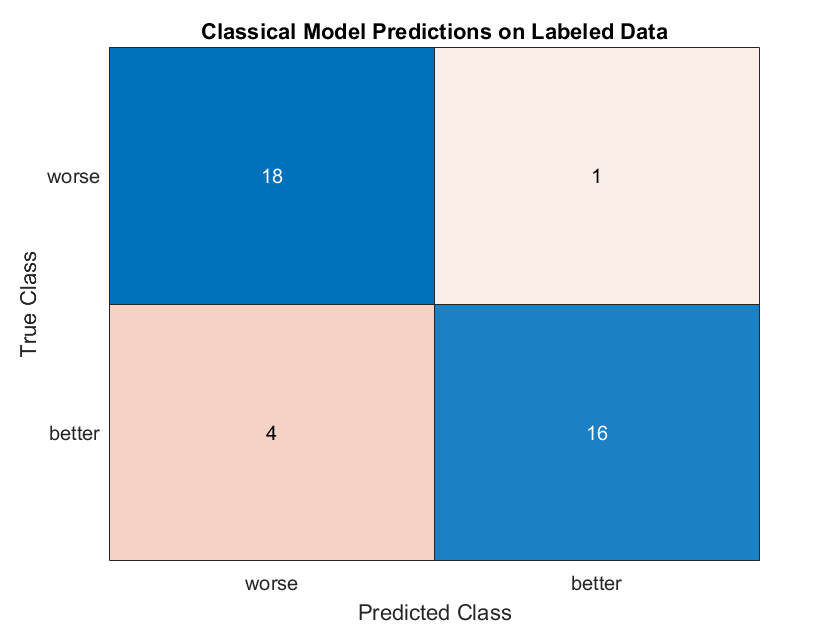
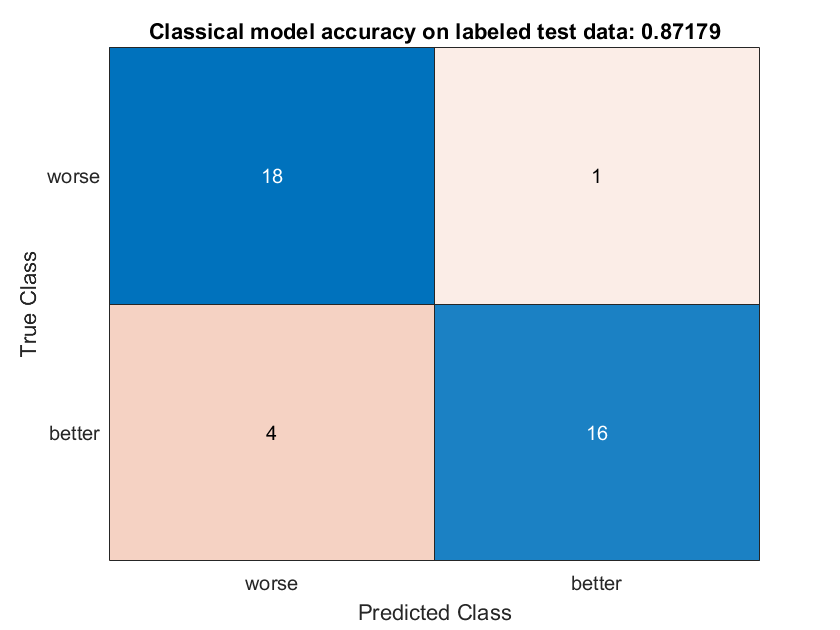
Test results on real hardware

Changed region(s): [[0.1548, 0.0302, 0.8667, 0.0905]]

diff --git a/examples/machine-learning/classifiers/creditscores/credit_classifier.m b/examples/machine-learning/classifiers/creditscores/credit_classifier.m
@@ -20,6 +20,8 @@ trainY = Y(idx);
 testX = X(~idx,:);
 testY = Y(~idx);
 
+save('testDataCredit.mat', 'testX', 'testY')
+
 %% Evaluate Classical Model
 
 % Ensemble of bagged decision trees
@@ -29,8 +31,9 @@ dTree = TreeBagger(numTrees,trainX,trainY);
 predY = predict(dTree, testX);
 
 figure
+accur = sum(testY==categorical(predY))/numel(testY);
 confusionchart(testY, categorical(predY))
-title('Classical Model Predictions on Labeled Data')
+title('Classical Test Accuracy: '+string(accur))
 
 %% Evaluate Quantum Model
 
@@ -46,21 +49,23 @@ title('Classical Model Predictions on Labeled Data')
 % options = trainingOptions("adam", ...
 %     MiniBatchSize=20, ...
 %     InitialLearnRate=0.01, ...
-%     ExecutionEnvironment="gpu", ...
+%     ExecutionEnvironment="cpu", ...
 %     Verbose=false, ...
-%     MaxEpochs=50, ...
+%     MaxEpochs=25, ...
 %     Plots="training-progress");
-% 
-% net = trainNetwork(trainX,trainY,layers,options);
 
-model = load('trainedNetwork.mat');
-net = model.net;
+% net = trainNetwork(trainX,trainY,layers,options);
+% save('trainedNetwork.mat', 'net')
+
+trained = load('trainedNetwork.mat');
+net = trained.net;
 
 predY = classify(net, testX);
 
 figure
-confusionchart(testY, predY)
-title('Quantum Model Predictions on Labeled Data')
+accur = sum(testY==predY)/numel(testY);
+confusionchart(testY, predY);
+title('Quantum Simulation Test Accuracy: '+string(accur))
 
 %% Evaluate Models on New Data
 
@@ -71,54 +76,13 @@ unlabeledData = readtable("CreditRating_NewCompanies.dat");
 X = processCreditData(unlabeledData);
 
 Y1 = predict(dTree, X);
+Y1 = categorical(Y1);
 
 Y2 = classify(net, X);
 
 figure
-cm = confusionchart(categorical(Y1), Y2);
+accur = sum(Y1==Y2)/size(X,1);
+cm = confusionchart(Y1, Y2);
 cm.XLabel = "Classical";
 cm.YLabel = "Quantum";
-title('Model Predictions on Unlabeled Data')
-
-%% Create Features and Labels from Credit Rating Data
-
-function [X,Y] = processCreditData(data)
-% Ratings {A,AA,AAA,B} are labeled as better and {BB,BBB,C} are labeled
-% as worse. Use 4 features to classify a sample as worse or better: 
-
-% (RE_TA)    - Retained Earnings / Total Assets
-% (EBIT_TA)  - Earnings Before Interests and Taxes / Total Assets 
-% (MVE_BVTD) - Market Value of Equity / Book Value of Total Debt 
-% (S_TA)     - Sales / Total Assets 
-
-arguments
-    data table
-end
-
-vars = data.Properties.VariableNames;
-
-% Choose features and rescale them in the range [0 pi/2]
-features = vars(3:6);
-data = normalize(data,"range", [0 pi/2], "DataVariables",features);
-
-numSamples = size(data, 1);
-numFeatures = length(features);
-
-hasLabels = ismember('Rating', vars);
-if hasLabels
-    Y = categorical(repmat("worse", [numSamples 1]));
-else
-    % Unused default output when data doesn't have labels
-    Y = missing;
-end
-
-X = zeros(numSamples, numFeatures);
-for ii  = 1:numSamples
-    X(ii,:) = data{ii, features};
-    if hasLabels
-        if ismember(data.Rating(ii), {'A','AA','AAA','B'})
-            Y(ii) = categorical("better");
-        end
-    end
-end
-end
+title("Model Agreement Frequency on New Data: "+string(accur))

diff --git a/examples/machine-learning/classifiers/creditscores/processCreditData.m b/examples/machine-learning/classifiers/creditscores/processCreditData.m
@@ -1,0 +1,40 @@
+function [X,Y] = processCreditData(data)
+% Ratings {A,AA,AAA,B} are labeled as better and {BB,BBB,C} are labeled
+% as worse. Use 4 features to classify a sample as worse or better: 
+
+% (RE_TA)    - Retained Earnings / Total Assets
+% (EBIT_TA)  - Earnings Before Interests and Taxes / Total Assets 
+% (MVE_BVTD) - Market Value of Equity / Book Value of Total Debt 
+% (S_TA)     - Sales / Total Assets 
+
+arguments
+    data table
+end
+
+vars = data.Properties.VariableNames;
+
+% Choose features and rescale them in the range [0 pi/2]
+features = vars(3:6);
+data = normalize(data,"range", [0 pi/2], "DataVariables",features);
+
+numSamples = size(data, 1);
+numFeatures = length(features);
+
+hasLabels = ismember('Rating', vars);
+if hasLabels
+    Y = categorical(repmat("worse", [numSamples 1]));
+else
+    % Unused default output when data doesn't have labels
+    Y = missing;
+end
+
+X = zeros(numSamples, numFeatures);
+for ii  = 1:numSamples
+    X(ii,:) = data{ii, features};
+    if hasLabels
+        if ismember(data.Rating(ii), {'A','AA','AAA','B'})
+            Y(ii) = categorical("better");
+        end
+    end
+end
+end

diff --git a/examples/machine-learning/classifiers/creditscores/README.md b/examples/machine-learning/classifiers/creditscores/README.md
@@ -2,29 +2,41 @@
 
 This example compares classical and quantum models for a binary classification
 task on synthetic credit rating data. Using labeled data from [2], both models are 
-trained and evaluated on unseen test data. A new credit dataset of unlabeled 
-data is used to compare the predictions of both models.
+trained and evaluated on unseen test data. New samples of unlabeled data
+are used to compare the simulated predictions of both models.
 
-The quantum circuit is based on Tree Tensor Network (TTN) structure [1] and
-is simulated without noise during training and test evaluation.  
+The quantum model is based on a Tree Tensor Network (TTN) circuit structure
+[1] with post-processing. It was trained classically, and tested on real
+quantum hardware as well as simulation. The classical model is a conventional
+bagged decision tree. 
 
-Data is available with the Statistics and Machine Learning Toolbox. It can
-be accessed by opening the example [2]:
+Details of data pre-processing are shown in the ```matlab processCreditData.m```
+function. The raw data is available with the Statistics and Machine 
+Learning Toolbox. It can be accessed by opening the example [2]:
 ```matlab
 openExample('stats/creditratingdemo')
 ```
 
-## Results on Labeled and Unlabeled Test Data 
+## Simulation and Hardware Test Results 
 
-In the two figures below, diagonal elements represent the respective model
-making the correct prediction on unseen labeled samples.
+Models were trained using 99% of the data, and tested on the remaining 1%. 
+Only 10 samples from the test set were evaluated on real hardware. Diagonal 
+elements represent the correct prediction.
 
 ![](confusionTestClassical.png?raw=true)
 
 ![](confusionTestQuantum.png?raw=true)
 
-Here, the diagonal elements represent the two models making the same 
-prediction on an unknown sample.
+The Aria 1 quantum device was used with 100 shots to classify each sample. 
+
+![](confusionTestHardware.png?raw=true)
+
+## Simulation Test Results on New Data
+
+Using new and unlabeled data, both models were simulated to test
+similarity of their predictions. Here, the diagonal elements represent the
+two models making the same prediction on unknown samples. The models agree 
+on many predictions, but the true accuracy is unknown.
 
 ![](confusionUnlabeledTestBoth.png?raw=true)
 
